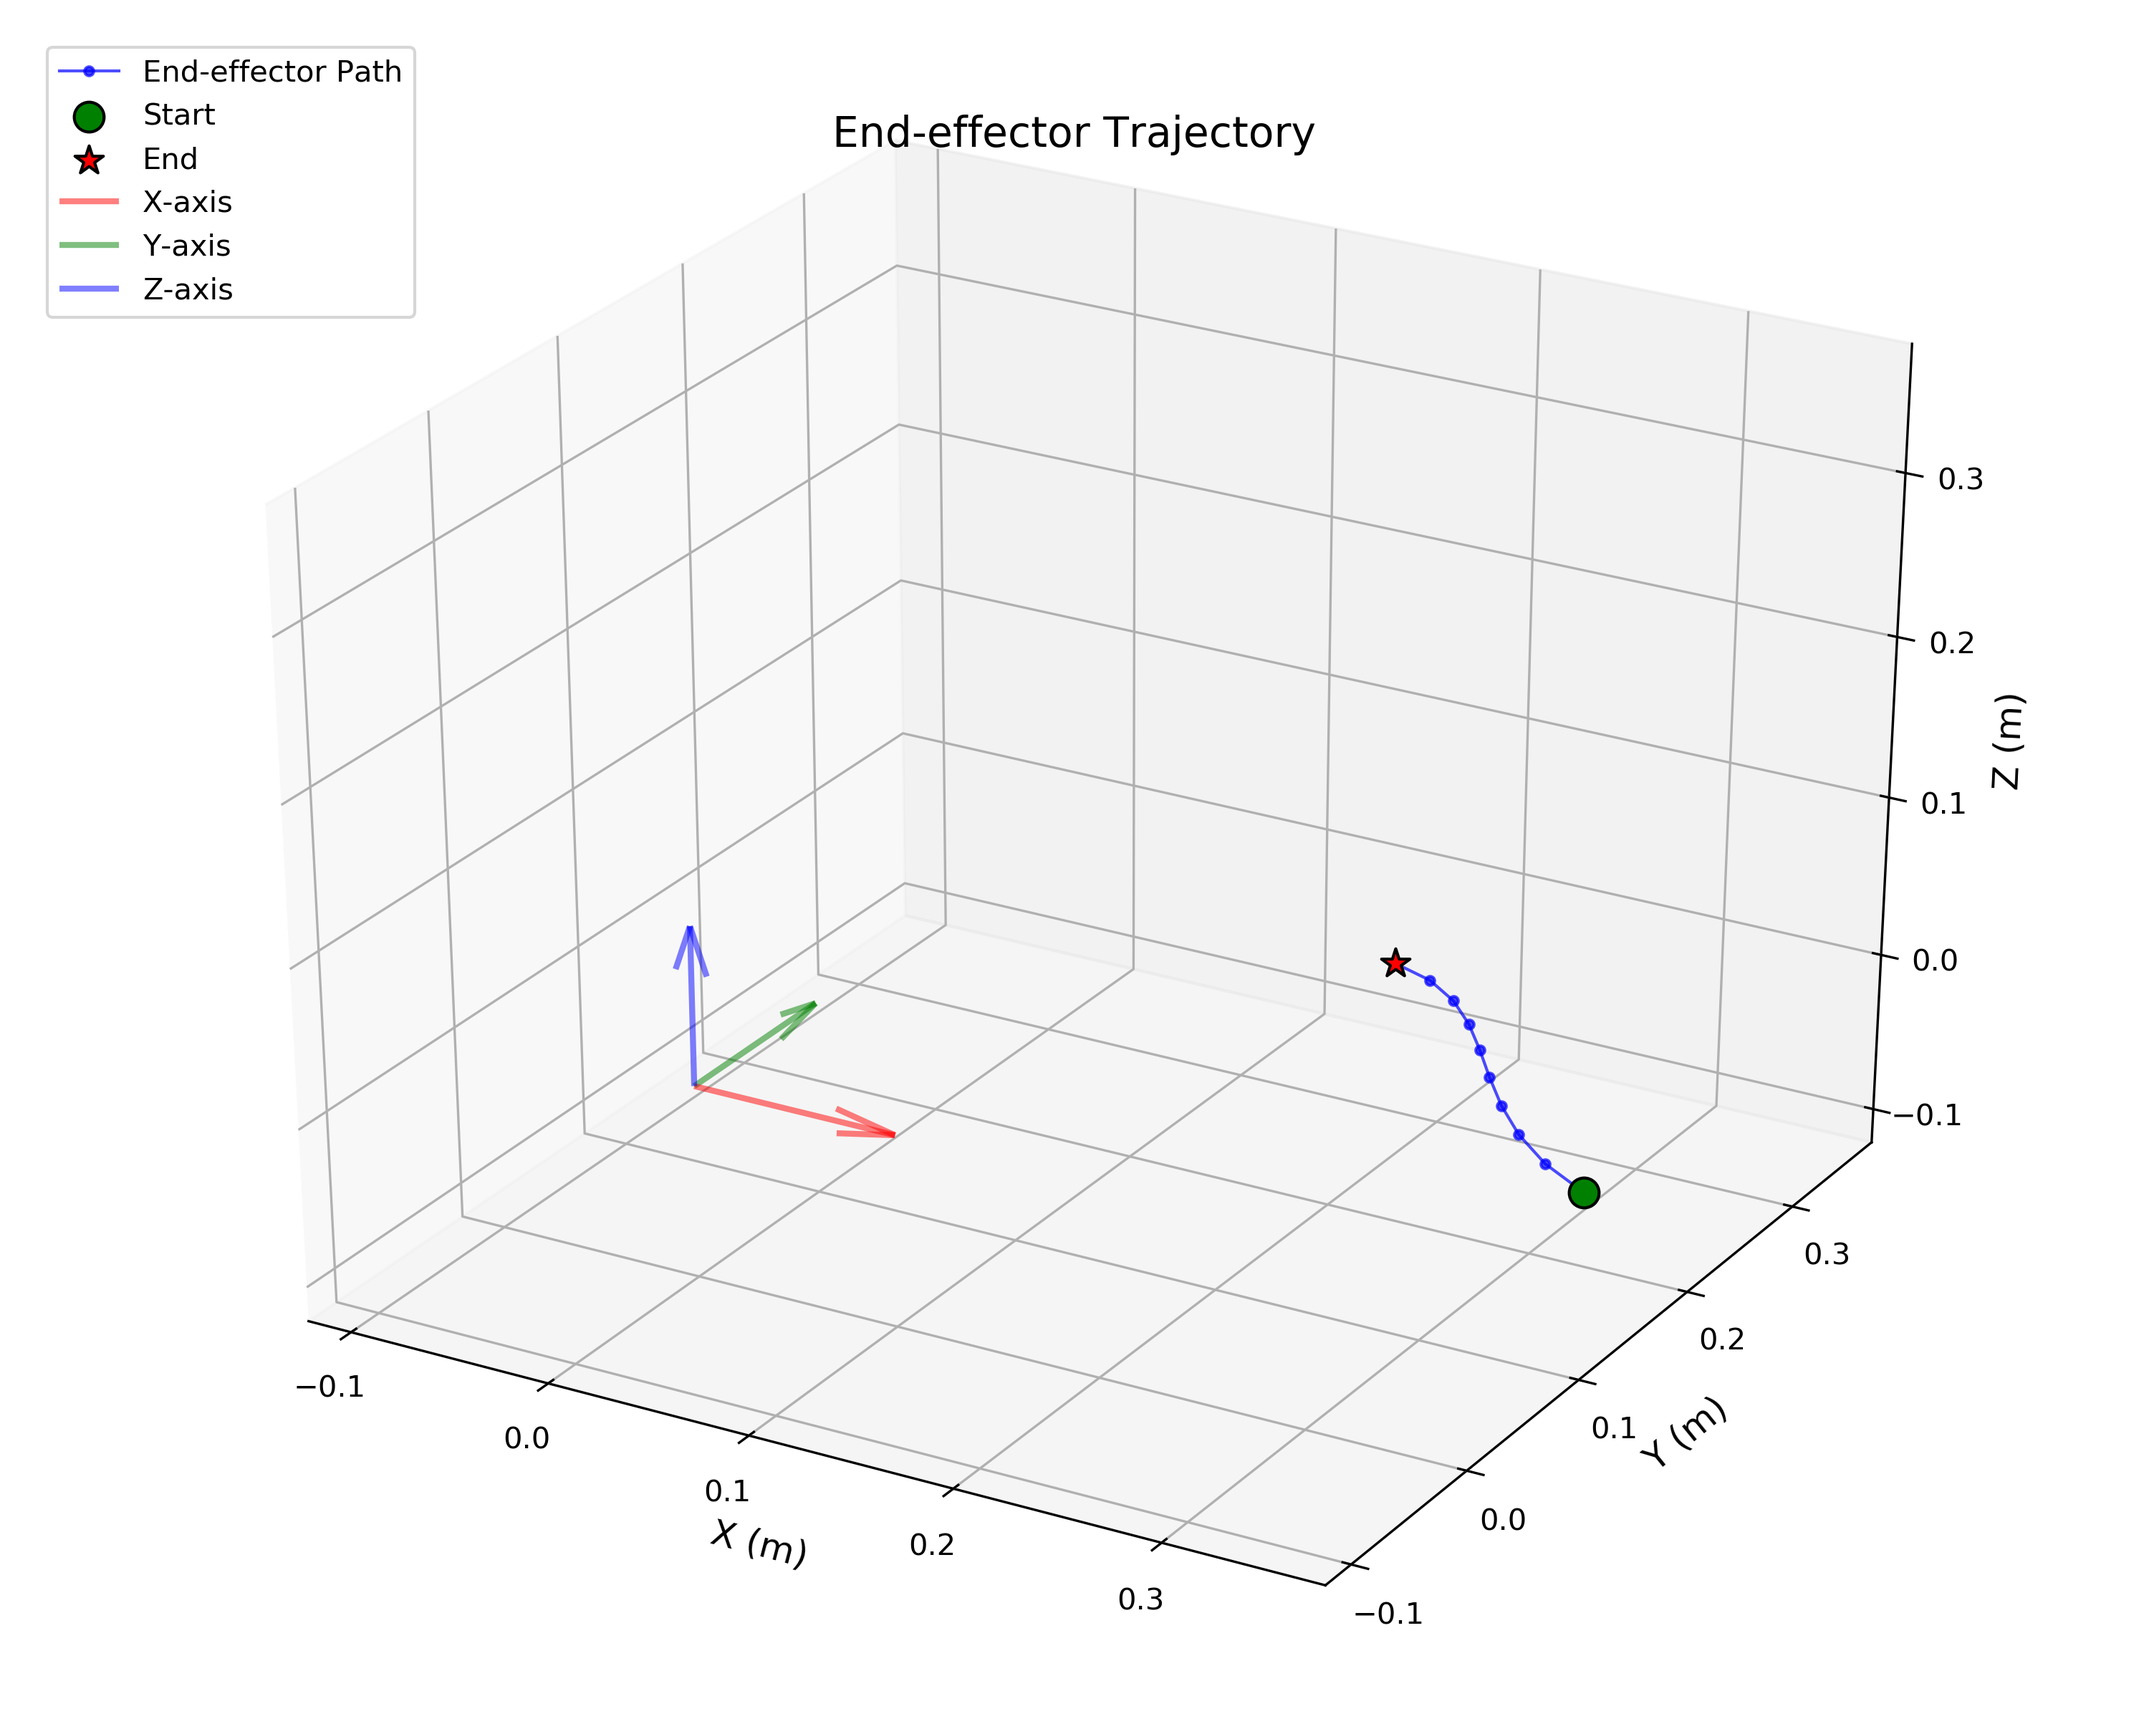
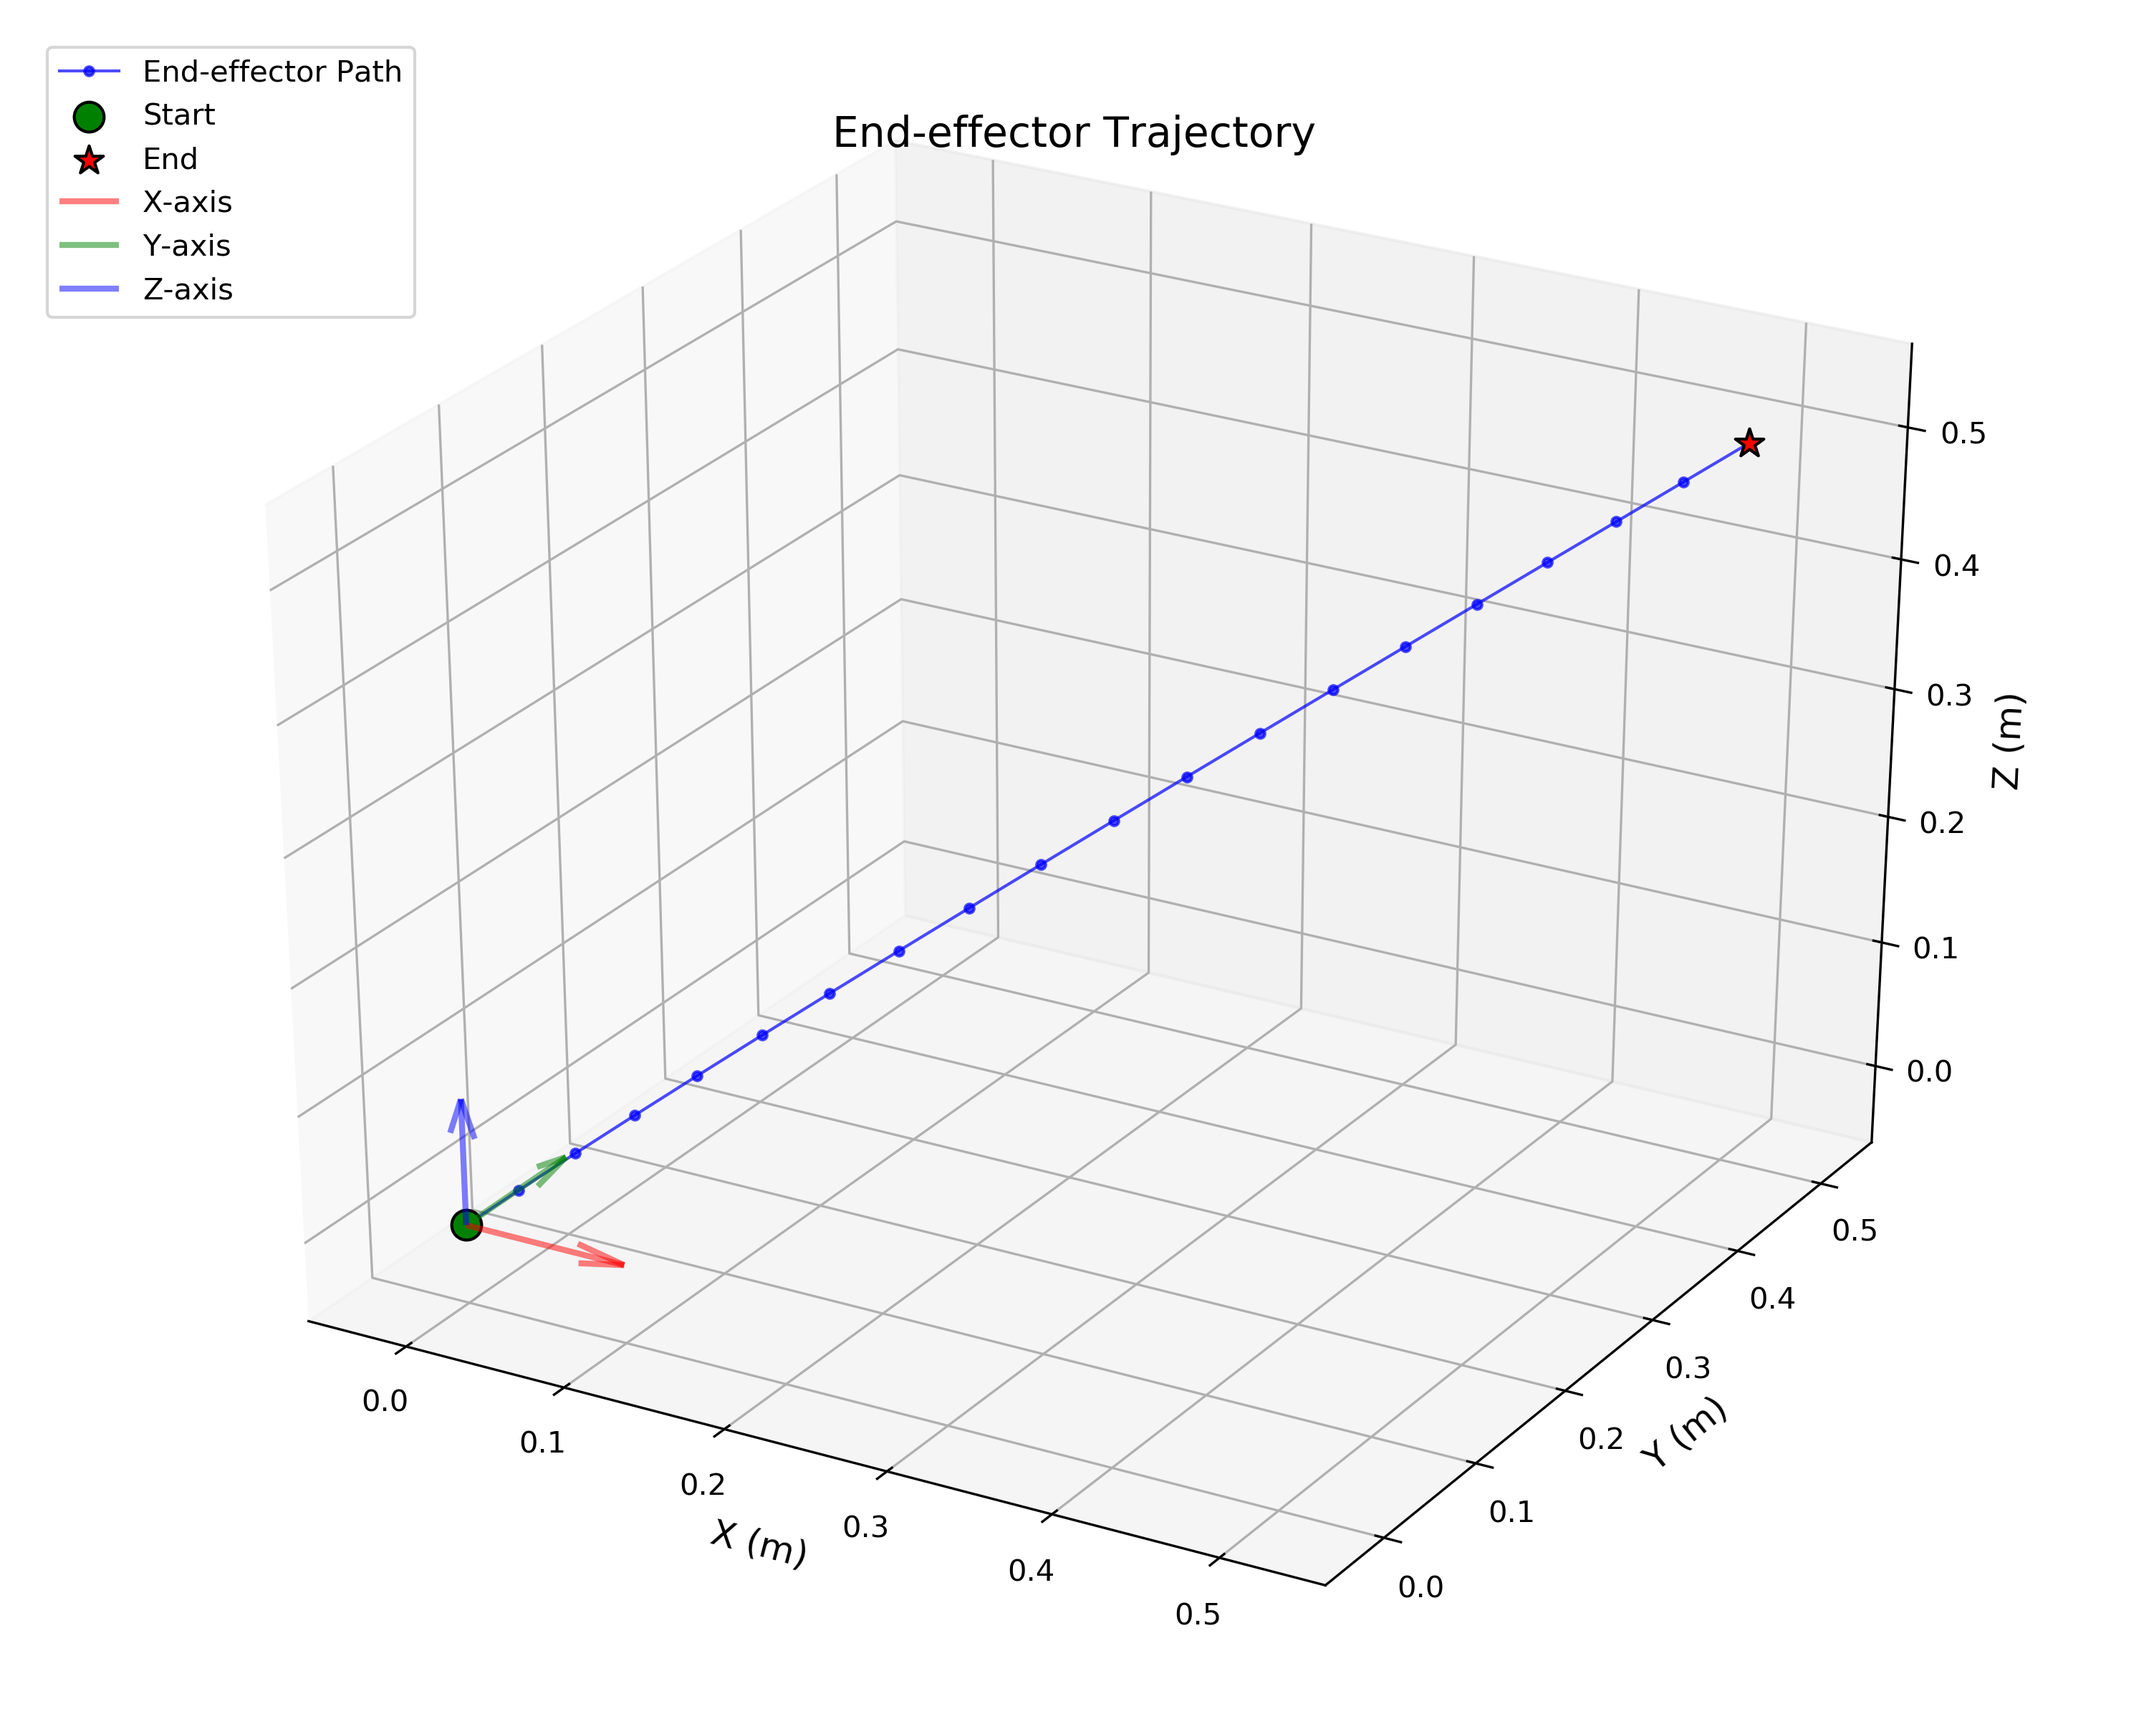
chore: 更新 TODO 清单并添加视觉工具脚本
- 删除了 TODO 文件中的所有任务项
- 新增 visual.py 脚本，用于可视化工具
- 更新了 trajectory_visualization.png 图片

diff --git a/ur_record/trajectory/trajectory.py b/ur_record/trajectory/trajectory.py
@@ -1,0 +1,172 @@
+#!/usr/bin/env python3
+# -*- coding: utf-8 -*-
+# vim:fenc=utf-8
+'''
+@File    :   trajectory.py
+@Time    :   2025/07/23 15:33:46
+@Author  :   StarCheng
+@Version :   1.0
+@Site    :   https://star-cheng.github.io/Blog/
+'''
+from scipy.interpolate import make_interp_spline
+from scipy.spatial.transform import Rotation as R
+from geometry_msgs.msg import Pose, Quaternion
+from mpl_toolkits.mplot3d import Axes3D
+import matplotlib.pyplot as plt
+import transforms3d as tf3d
+import numpy as np
+
+class TrajectoryPlanner:
+    def __init__(self):
+        pass
+
+    def create_pose(self, xyz_: list, quat_wxyz_=None):
+        """创建一个Pose对象"""
+        pose_ = np.eye(4)
+        pose_[:3, 3] = xyz_
+        if quat_wxyz_ is None:
+            quat_wxyz_ = [1, 0, 0, 0]
+            pose_[:3, :3] = tf3d.quaternions.quat2mat(quat_wxyz_)  # wxyz顺序
+        else:
+            pose_[:3, :3] = tf3d.quaternions.quat2mat(quat_wxyz_)  # wxyz顺序
+        return pose_
+    
+    def plan(self, start_pose, end_pose, steps=10, is_random=False, direction=[1.0, 1.0, 1.0]):
+        """
+        生成起点到终点的非直线轨迹(三维B样条)
+        
+        参数:
+            start_pose: 起点位姿 (geometry_msgs/Pose)
+            end_pose: 终点位姿 (geometry_msgs/Pose)
+            steps: 路径点数量（包括起点终点）
+            direction: 轨迹方向向量 (list of float)
+
+        返回:
+            path: 轨迹点位姿列表 (list of geometry_msgs/Pose)
+        """
+        # 提取起点终点坐标
+        start_pos = start_pose[:3, 3]
+        end_pos = end_pose[:3, 3]
+        r_start = R.from_matrix(start_pose[:3, :3])
+        r_end = R.from_matrix(end_pose[:3, :3])
+        if is_random:
+            # 生成曲形控制点 (在起点终点之间添加偏移控制点)
+            mid1 = start_pos + (end_pos - start_pos) * 0.3 + np.random.uniform(-0.01, 0.01, 3) * np.array(direction)  # 添加偏移控制点
+            mid2 = start_pos + (end_pos - start_pos) * 0.7 + np.random.uniform(-0.01, 0.01, 3) * np.array(direction)  # 添加偏移控制点
+        else:
+            # 指定特定偏移量（非随机）
+            mid1 = start_pos + (end_pos - start_pos) * 0.3 + np.array([0.02, -0.02, 0.02] * np.array(direction))  # 添加偏移控制点
+            mid2 = start_pos + (end_pos - start_pos) * 0.7 + np.array([0.02, -0.02, 0.02] * np.array(direction))  # 添加偏移控制点
+
+        control_points = np.vstack([start_pos, mid1, mid2, end_pos])
+        # 避障扩展
+        # 参数化控制点
+        t = [0, 0.3, 0.7, 1.0]
+        spline = make_interp_spline(t, control_points, k=3)
+        
+        # 生成平滑轨迹
+        u = np.linspace(0, 1, steps)
+        positions = spline(u)
+        
+        # 姿态插值（四元数球面线性插值）
+        start_quat = r_start.as_quat()
+        end_quat = r_end.as_quat()
+        orientations = self.slerp_orientations(start_quat, end_quat, steps)
+        # 构建路径点
+        all_points = []
+        all_quats = []
+        for i in range(steps):
+            all_points.append(positions[i])
+            all_quats.append(orientations[i])
+
+        return all_points, all_quats
+    
+    def quaternion_to_array(self, quat: Quaternion):
+        return np.array([quat.x, quat.y, quat.z, quat.w])
+    
+    def array_to_quaternion(self, arr):
+        from geometry_msgs.msg import Quaternion
+        return Quaternion(x=arr[0], y=arr[1], z=arr[2], w=arr[3])
+    
+    def slerp_orientations(self, q1, q2, steps):
+        """四元数球面线性插值"""
+        t = np.linspace(0, 1, steps)
+        orientations = []
+        
+        for i in range(steps):
+            dot = np.dot(q1, q2)
+            dot = np.clip(dot, -1.0, 1.0)
+            theta = np.arccos(dot) * t[i]
+
+            q = q2 - q1 * dot
+            norm_q = np.linalg.norm(q)
+            if norm_q > 1e-8:  # 设置很小的阈值
+                q = q / norm_q
+            else:
+                # 如果范数太小，可能直接用其中一个四元数
+                q = np.zeros_like(q)
+
+            result = q1 * np.cos(theta) + q * np.sin(theta)
+            # 归一化结果，保证正确性
+            norm_result = np.linalg.norm(result)
+            if norm_result > 1e-8:
+                result = result / norm_result
+
+            orientations.append(result)
+
+        return orientations
+    
+    def visualize_trajectory(positions: np.array):
+        """可视化笛卡尔空间轨迹"""
+        fig = plt.figure(figsize=(10, 8))
+        ax = fig.add_subplot(111, projection="3d")
+
+        # 绘制轨迹
+        ax.plot(
+            positions[:, 0], positions[:, 1], positions[:, 2], "bo-", linewidth=1, markersize=3, alpha=0.7, label="End-effector Path"
+        )
+
+        # 添加起点和终点标记
+        ax.scatter(positions[0, 0], positions[0, 1], positions[0, 2], c="green", s=100, marker="o", edgecolors="k", label="Start")
+        ax.scatter(positions[-1, 0], positions[-1, 1], positions[-1, 2], c="red", s=100, marker="*", edgecolors="k", label="End")
+
+        # 添加坐标轴
+        ax.quiver(0, 0, 0, 0.1, 0, 0, color="r", lw=2, alpha=0.5, label="X-axis")
+        ax.quiver(0, 0, 0, 0, 0.1, 0, color="g", lw=2, alpha=0.5, label="Y-axis")
+        ax.quiver(0, 0, 0, 0, 0, 0.1, color="b", lw=2, alpha=0.5, label="Z-axis")
+
+        ax.set_xlabel("X (m)", fontsize=12)
+        ax.set_ylabel("Y (m)", fontsize=12)
+        ax.set_zlabel("Z (m)", fontsize=12)
+        ax.set_title("End-effector Trajectory", fontsize=14)
+
+        # 设置图例和网格
+        ax.legend(fontsize=10, loc="upper left")
+        ax.grid(True)
+
+        # 设置等比例轴
+        all_coords = np.concatenate([positions[:, 0], positions[:, 1], positions[:, 2]])
+        min_val, max_val = np.min(all_coords), np.max(all_coords)
+        range_val = max_val - min_val
+
+        padding = range_val * 0.1  # 10% padding
+        ax.set_xlim3d(min_val - padding, max_val + padding)
+        ax.set_ylim3d(min_val - padding, max_val + padding)
+        ax.set_zlim3d(min_val - padding, max_val + padding)
+
+        plt.tight_layout()
+        plt.savefig("./data/vis/trajectory_visualization.png", dpi=300)
+        plt.show()
+
+if __name__ == "__main__":
+    # 示例用法
+    planner = TrajectoryPlanner()
+
+    start_pose = planner.create_pose([0, 0, 0], [1, 0, 0, 0])
+    end_pose = planner.create_pose([0.5, 0.5, 0.5], [1, 0, 0, 0])
+    
+    positions, orientations = planner.plan(start_pose, end_pose, steps=20, is_random=True, direction=[1.5, 1.5, 1.5])
+    
+    # 可视化轨迹
+    positions_array = np.array(positions)
+    TrajectoryPlanner.visualize_trajectory(positions_array)

diff --git a/mujoco/panda/control/pid_torque_and_get.py b/mujoco/panda/control/pid_torque_and_get.py
@@ -1,0 +1,75 @@
+import mujoco_viewer
+import numpy as np
+# matplotlib.use('TkAgg')
+import matplotlib.pyplot as plt
+import time,math
+
+class PIDController:
+    def __init__(self, kp, ki, kd):
+        self.kp = kp
+        self.ki = ki
+        self.kd = kd
+        self.prev_error = 0
+        self.integral = 0
+
+    def update(self, error, dt):
+        self.integral += error * dt
+        derivative = (error - self.prev_error) / dt
+        output = self.kp * error + self.ki * self.integral + self.kd * derivative
+        self.prev_error = error
+        return output
+
+class Test(mujoco_viewer.CustomViewer):
+    def __init__(self, path):
+        super().__init__(path, 3, azimuth=180, elevation=-30)
+        self.path = path
+    
+    def runBefore(self):
+        kp = 10.0
+        ki = 1.0
+        kd = 5.0
+        self.pid = PIDController(kp, ki, kd)
+        self.target_position = 3.14 / 4
+        self.dt = self.model.opt.timestep
+        self.positions = []
+        self.torques = []
+       
+    def runFunc(self):
+        wait_time = 0.01
+        time.sleep(wait_time)
+        # 获取当前关节位置
+        current_position = self.data.qpos[0]
+        # 计算误差
+        error = self.target_position - current_position
+        # 使用 PID 控制器计算扭矩
+        torque = self.pid.update(error, self.dt + wait_time)
+        print(f"error: {error}, Current Position: {current_position}, Target Position: {self.target_position}, Torque: {torque}")
+        # 设置关节扭矩
+        self.data.ctrl[0] = torque
+        # 记录数据
+        self.positions.append(current_position)
+        self.torques.append(torque)
+        # if math.fabs(error) < 0.001:
+        #     plt.figure(figsize=(12, 6))
+        #     plt.subplot(2, 1, 1)
+        #     plt.plot(self.positions, label='Joint Position')
+        #     plt.axhline(y=self.target_position, color='r', linestyle='--', label='Target Position')
+        #     plt.xlabel('Time Step')
+        #     plt.ylabel('Position')
+        #     plt.legend()
+
+        #     plt.subplot(2, 1, 2)
+        #     plt.plot(self.torques, label='Torque')
+        #     plt.xlabel('Time Step')
+        #     plt.ylabel('Torque')
+        #     plt.legend()
+
+        #     plt.show()
+        #     self.target_position = 0.0
+        
+
+if __name__ == "__main__":
+    test = Test("mujoco/model/franka_emika_panda/scene.xml")
+    test.run_loop()
+
+    

diff --git a/mujoco/panda/control/mujoco_viewer.py b/mujoco/panda/control/mujoco_viewer.py
@@ -1,0 +1,40 @@
+import mujoco
+import mujoco.viewer
+
+class CustomViewer:
+    def __init__(self, model_path, distance=3, azimuth=0, elevation=-30):
+        self.model = mujoco.MjModel.from_xml_path(model_path)
+        self.data = mujoco.MjData(self.model)
+
+        self.handle = mujoco.viewer.launch_passive(self.model, self.data)
+        self.handle.cam.distance = distance
+        self.handle.cam.azimuth = azimuth
+        self.handle.cam.elevation = elevation
+
+    def is_running(self):
+        return self.handle.is_running()
+
+    def sync(self):
+        self.handle.sync()
+
+    @property
+    def cam(self):
+        return self.handle.cam
+
+    @property
+    def viewport(self):
+        return self.handle.viewport
+
+    def run_loop(self):
+        self.runBefore()
+        while self.is_running():
+            mujoco.mj_forward(self.model, self.data)
+            self.runFunc()
+            mujoco.mj_step(self.model, self.data)
+            self.sync()
+    
+    def runBefore(self):
+        pass
+
+    def runFunc(self):
+        pass

diff --git a/ur_record/tools/visual.py b/ur_record/tools/visual.py
@@ -1,3 +1,13 @@
+#!/usr/bin/env python3
+# -*- coding: utf-8 -*-
+# vim:fenc=utf-8
+'''
+@File    :   visual.py
+@Time    :   2025/07/23 15:33:58
+@Author  :   StarCheng
+@Version :   1.0
+@Site    :   https://star-cheng.github.io/Blog/
+'''
 from mpl_toolkits.mplot3d import Axes3D
 import matplotlib.pyplot as plt
 import numpy as np

diff --git a/TODO.md b/TODO.md
@@ -8,5 +8,5 @@
 
 ## Mujoco
 
-- [ ] Mujoco server 配合 Client
-- [ ] Moveit Mujoco 联合仿真
+- [ ] Mujoco Server 配合 Client
+- [ ] Mujoco Moveit 联合仿真
